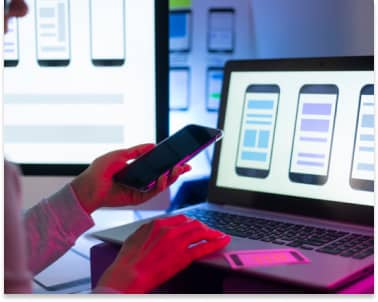
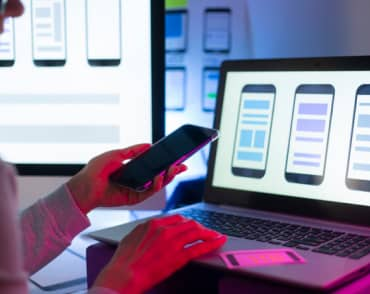
Fixed photos and path to them

diff --git a/index.html b/index.html
@@ -55,13 +55,13 @@
 
         <ul>
            <li>
-               <img src="./images/working-on-tablet.png"  alt="Пишем код" width="370" height="295">
+               <img src="./images/working-on-tablet.jpg"  alt="Пишем код" width="370" height="295">
             </li>
            <li>
-               <img src="./images/working-on-phone.png" alt="Адаптируем под телефоны" width="370" height="295">
+               <img src="./images/working-on-phone.jpg" alt="Адаптируем под телефоны" width="370" height="295">
             </li>
            <li>
-               <img src="./images/working-on-tablet2.png" alt="Создаём дизайн" width="370" height="295">
+               <img src="./images/working-on-tablet2.jpg" alt="Создаём дизайн" width="370" height="295">
             </li> 
         </ul>
     </section>
